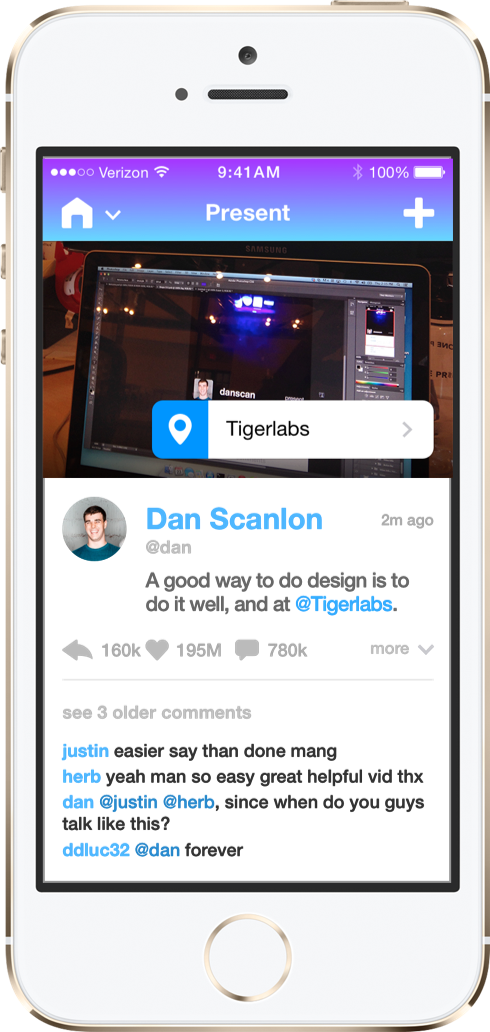
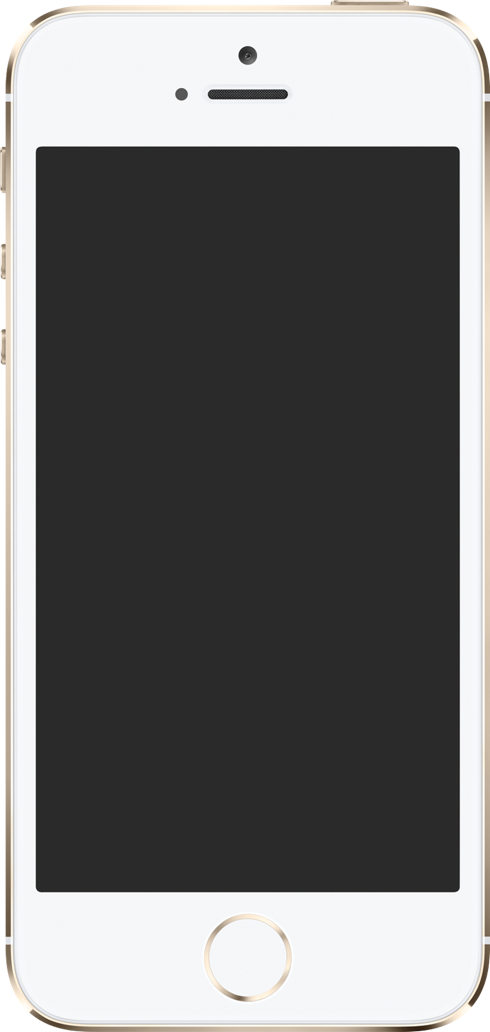
added screen rotator

diff --git a/public/js/core/directives.js b/public/js/core/directives.js
@@ -21,7 +21,7 @@ pDirectives.directive('viewContainer', ['$animate', '$window', '$anchorScroll', 
 
 
 /*HOME
- =======================================*/
+ ======================================= */
 pDirectives.directive('downloadBtn', ['$uiViewScroll', function($uiViewScroll) {
   return {
     restrict: 'EA',
@@ -29,8 +29,39 @@ pDirectives.directive('downloadBtn', ['$uiViewScroll', function($uiViewScroll) {
       var downloadBtn = angular.element(elem);
       elem.bind('click', function() {
         var downloadElem = angular.element(document.querySelector('#download'));
-        $uiViewScroll(downloadElem);
+          $uiViewScroll(downloadElem);
       });
+    }
+  }
+}]);
+
+
+/* DOWNLOAD
+  ====================================== */
+pDirectives.directive('iphone', ['$interval', '$timeout', function($interval, $timeout) {
+  return {
+    restrict: 'EA',
+    controller: function($scope) {
+
+      $scope.images = ['http://placehold.it/250x360'];
+
+      $scope.viewer = {
+        changing: false,
+        index: 0,
+        source: $scope.images[0]
+      };
+
+      $interval(function() {
+        $scope.rotateScreens();
+      }, 4000);
+
+      $scope.rotateScreens = function() {
+          $scope.viewer.changing = true;
+          console.log('it works!');
+          $timeout(function() {
+            $scope.viewer.changing = false;
+          }, 800);
+      };
     }
   }
 }]);
@@ -38,7 +69,7 @@ pDirectives.directive('downloadBtn', ['$uiViewScroll', function($uiViewScroll) {
 
 
 /* FEED
- =======================================*/
+ ======================================= */
 
 pDirectives.directive('presentFeed', function() {
      return {

diff --git a/views/download.html b/views/download.html
@@ -2,8 +2,8 @@
   <div class="content">
 
     <div class="phone">
-      <div class="appScreen">
-        <img src="http://placehold.it/200x360" />
+      <div class="appScreen" iphone>
+        <img ng-src="http://placehold.it/250x360"  class="a-fade-fast" ng-hide="viewer.changing" />
       </div>
     </div>
     <div class="copy">
@@ -25,7 +25,6 @@
             <a target="blank"href="/assets/html/policy/policy.html">PRIVATE POLICY</a>
             <img src="http://cdn.mxpnl.com/site_media/images/partner/badge_light.png" />
         </div>
-
       </div>
   </div>
 </div>
